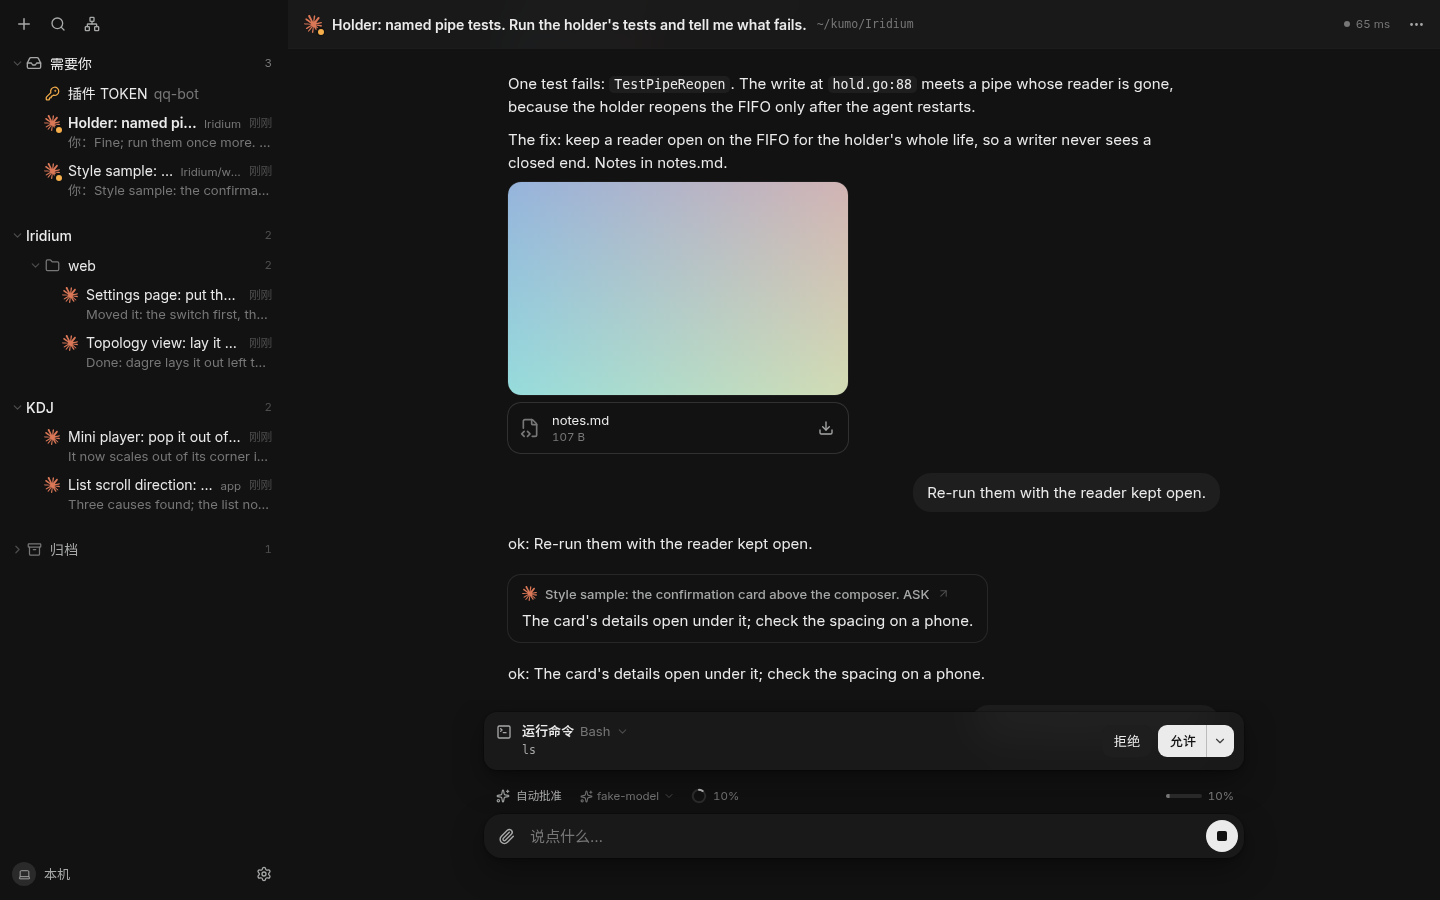
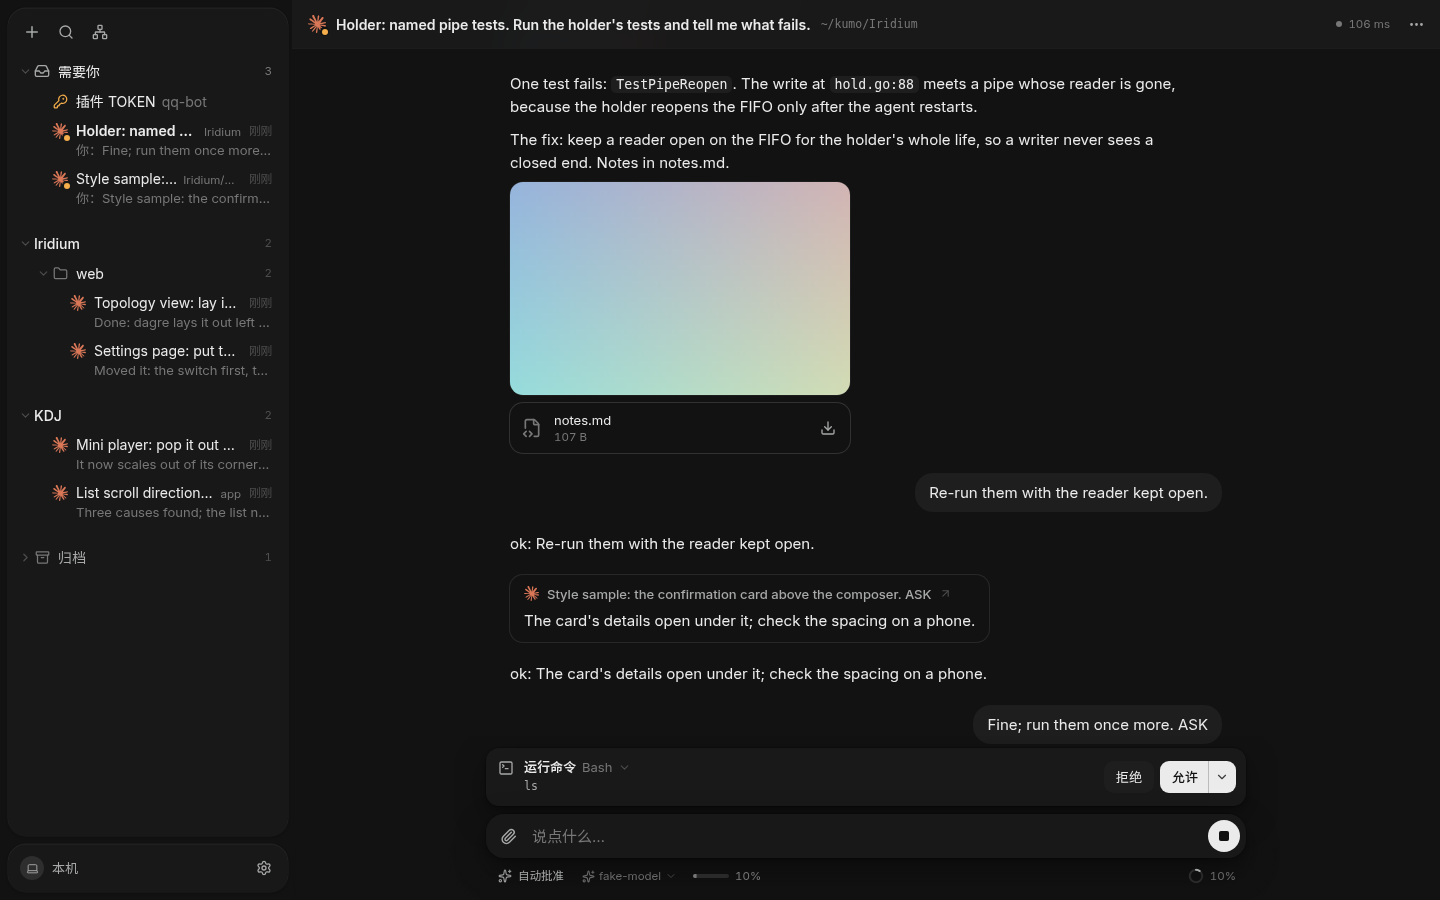
Web: the sidebar as floating slabs, the footer a slab of its own
On a computer the list is a rounded slab inset from the window; under it "本机 + settings" is a
second slab, told apart by its shape, not a line. Slabs are a step off the paper with their own
hover fills and a hairline lit from above; on a phone only the footer floats.

diff --git a/web/src/styles.css b/web/src/styles.css
@@ -20,6 +20,11 @@
   --glass-thick: oklch(0.995 0 0 / 0.86);
   --glass-solid: oklch(0.985 0 0);
   --glass-blur: 22px;
+  /* the sidebar's slabs: a step off the paper, their own hover fills, a hairline lit from above */
+  --slab: oklch(0.97 0 0);
+  --slab-fill: oklch(0.935 0 0);
+  --slab-fill-2: oklch(0.9 0 0);
+  --slab-ring: 0 0 0 0.5px oklch(0 0 0 / 0.06), 0 1px 2px oklch(0 0 0 / 0.04), inset 0 0.5px 0 oklch(1 0 0 / 0.7);
   --shadow-float: 0 0 0 0.5px oklch(0 0 0 / 0.05), 0 2px 6px oklch(0 0 0 / 0.05), 0 12px 32px oklch(0 0 0 / 0.08);
   --on-ink: oklch(0.99 0 0);
 
@@ -57,6 +62,10 @@
   --glass: oklch(0.225 0 0 / 0.72);
   --glass-thick: oklch(0.235 0 0 / 0.84);
   --glass-solid: oklch(0.225 0 0);
+  --slab: oklch(0.21 0 0);
+  --slab-fill: oklch(0.255 0 0);
+  --slab-fill-2: oklch(0.3 0 0);
+  --slab-ring: 0 0 0 0.5px oklch(1 0 0 / 0.07), 0 1px 3px oklch(0 0 0 / 0.3), inset 0 0.5px 0 oklch(1 0 0 / 0.06);
   --shadow-float: 0 0 0 0.5px oklch(0 0 0 / 0.4), 0 2px 6px oklch(0 0 0 / 0.25), 0 12px 32px oklch(0 0 0 / 0.35);
   --on-ink: oklch(0.18 0 0);
   --run: oklch(0.68 0.15 252);
@@ -155,6 +164,17 @@ body {
 }
 .float {
   box-shadow: var(--shadow-float);
+}
+/* The sidebar's slabs (the list, the footer): what is paper inside them is the slab. */
+.slab {
+  --paper: var(--slab);
+  --fill: var(--slab-fill);
+  --fill-2: var(--slab-fill-2);
+  --color-paper: var(--slab);
+  --color-fill: var(--slab-fill);
+  --color-fill-2: var(--slab-fill-2);
+  background: var(--slab);
+  box-shadow: var(--slab-ring);
 }
 @media (prefers-reduced-transparency: reduce) {
   .glass {

diff --git a/web/src/sidebar.tsx b/web/src/sidebar.tsx
@@ -71,7 +71,8 @@ export function Sidebar(p: Props) {
   );
 
   return (
-    <aside className={cn("relative flex h-full flex-col", p.phone ? "w-full" : "w-[288px] shrink-0")}>
+    <aside className={cn("relative flex h-full flex-col", p.phone ? "w-full" : "w-[292px] shrink-0 gap-2 py-2 pr-1 pl-2")}>
+      <div className={cn("relative flex min-h-0 flex-1 flex-col", !p.phone && "slab overflow-hidden rounded-xl")}>
       {head}
       <div ref={list} className={cn("relative min-h-0 flex-1 overflow-y-auto px-2 pb-3", p.phone && "pt-15")} role="tree" aria-label={t("nav.sessions")}>
         {needs > 0 && (
@@ -156,7 +157,8 @@ export function Sidebar(p: Props) {
         )}
         {!p.tree.workspaces.length && !needs && <div className="g-fade px-2 pt-10 text-center text-sm text-ink-3">{t("nav.empty")}</div>}
       </div>
-      <div className="flex shrink-0 items-center justify-between gap-2 px-2 pt-1 pb-[max(8px,env(safe-area-inset-bottom))]">
+      </div>
+      <div className={cn("slab flex h-12 shrink-0 items-center justify-between gap-2 rounded-xl px-2 pointer-coarse:h-14", p.phone && "mx-2 mt-1 mb-[max(8px,env(safe-area-inset-bottom))]")}>
         <div className="min-w-0">{p.me}</div>
         <span className="relative shrink-0">
           <IconKey label={p.updateDot ? `${t("nav.settings")} · ${t("settings.updateReady")}` : t("nav.settings")} onClick={p.onSettings} aria-pressed={p.settings} className={p.settings ? "bg-fill text-ink" : undefined}>

diff --git a/docs/plan.md b/docs/plan.md
@@ -236,7 +236,7 @@ ir revoke <名字>
 - 简洁、轻、磨砂（只给顶栏、输入栏、弹出框、轻提示）；无强调色，标准中性色。
 - 小弹出框从按钮处长出；输入框选中没有描边；键盘 Tab 才有焦点圈。
 - 统一动效：弹出、收起、发送、重排；减弱动态效果时只淡入淡出。
-- 侧栏学 KDJ：无底色无卡片，留白分组，箭头单独一列，只有 agent logo 带颜色，选中只加粗。会话行两行（学 Rhodium）：名字（树里没体现目录时后面淡字标目录）；下面一行是最后一句话，你说的前面加“你：”，出错时写出错。
+- 侧栏是浮板（2026-11-06 试“未来简洁”）：电脑上列表一块圆角浮板、离窗口边 8px，底部“本机 + 设置”单独一小块浮在下面，靠色块分区不用线；手机上只有底部那块浮起。浮板比纸色深一档，里面留白分组，箭头单独一列，只有 agent logo 带颜色，选中只加粗。会话行两行（学 Rhodium）：名字（树里没体现目录时后面淡字标目录）；下面一行是最后一句话，你说的前面加“你：”，出错时写出错。
 - 状态灯（logo 右下角）：运行中蓝色呼吸，压缩中蓝黄渐变转动，需要你琥珀，出错红，启动中灰色呼吸，在别处运行蓝色空心环，空闲无灯；未读是中性实心点。
 - 少写字：图标和灯代替文字，字进悬停提示和 `aria-label`，手机长按出字。
 
